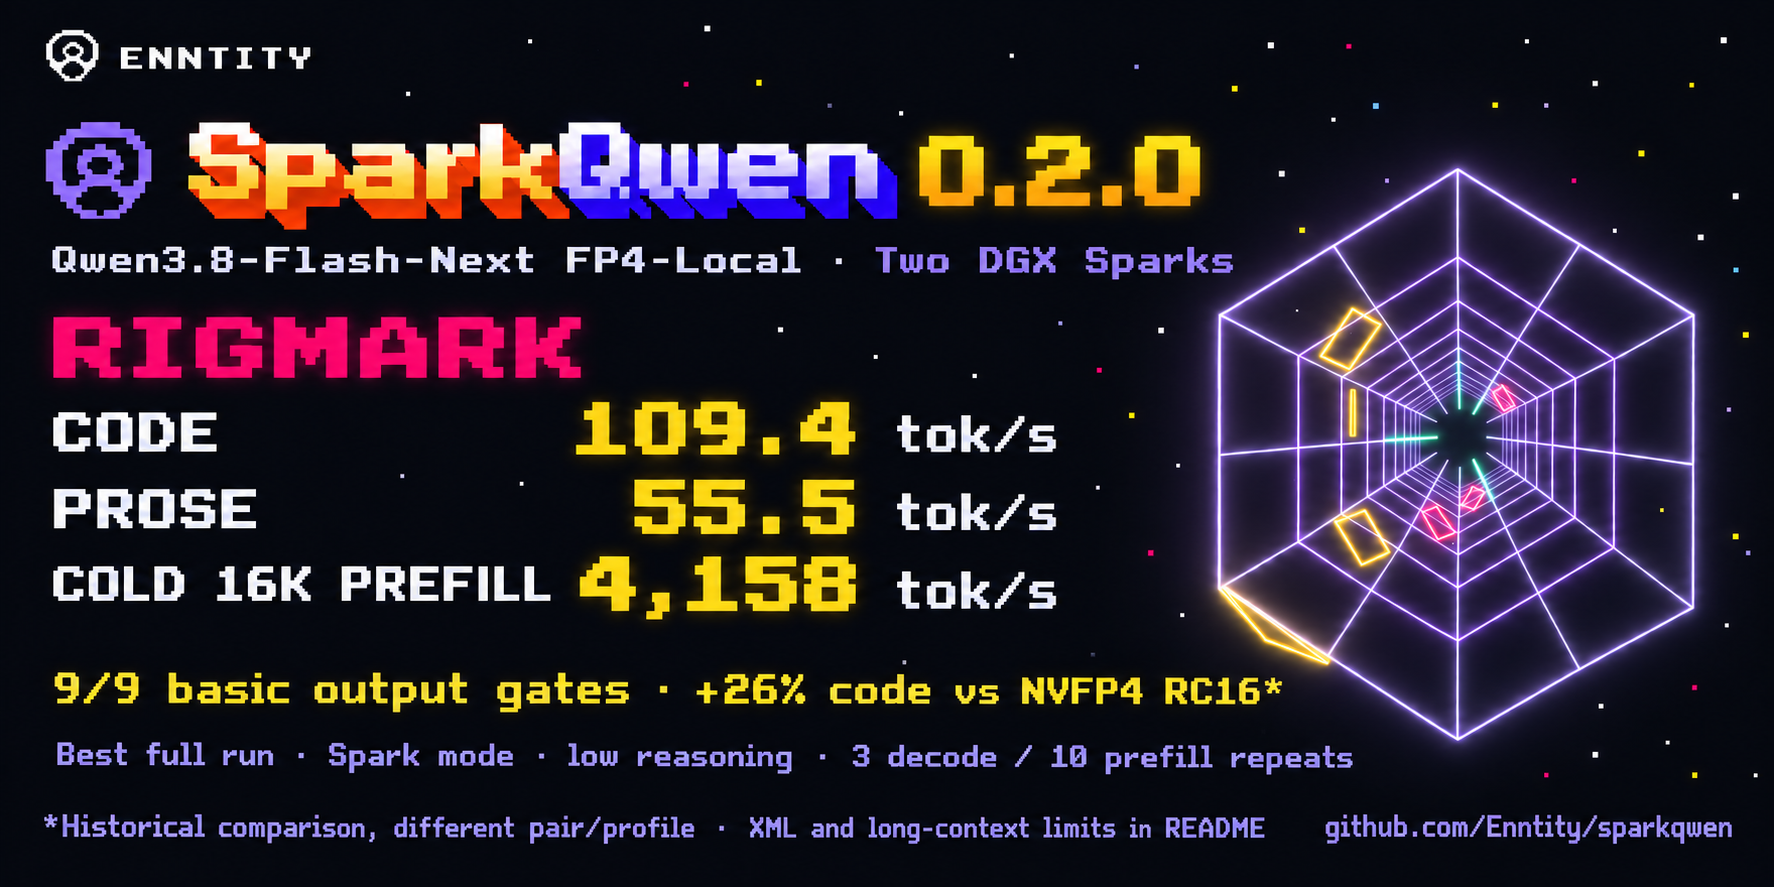
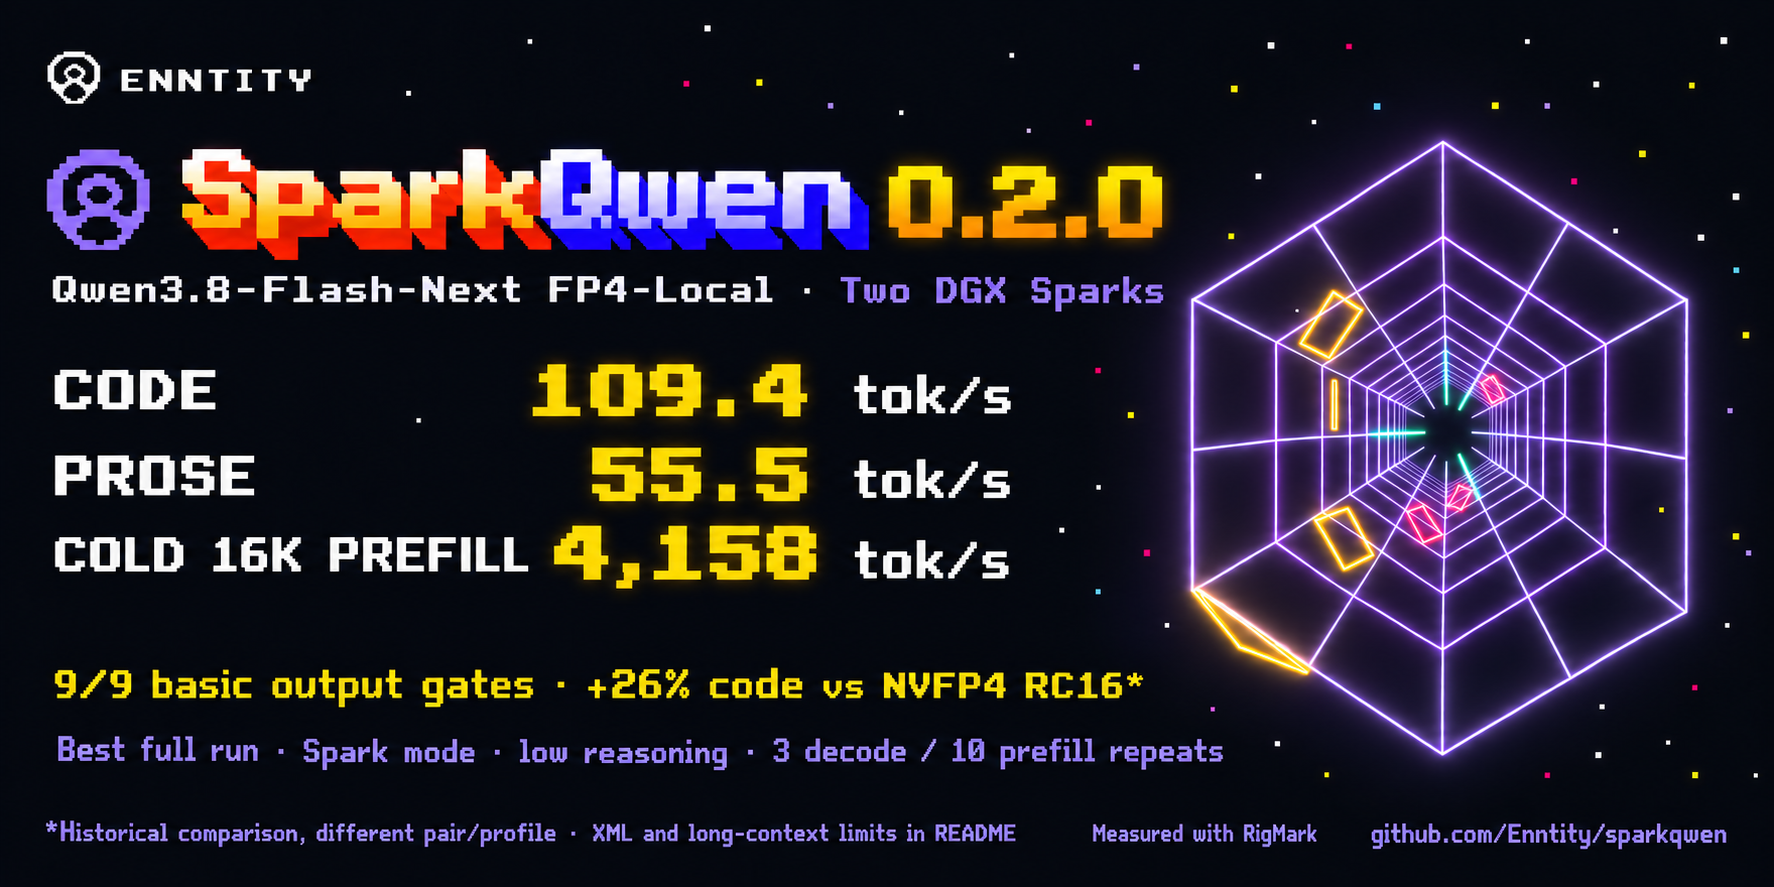
docs: make RigMark attribution subtle on SparkQwen cards (#22)

diff --git a/docs/assets/README.md b/docs/assets/README.md
@@ -3,8 +3,10 @@
 
 `banner.png` is the README hero; `social-preview.png` is the social card source.
 `social-preview.jpg` is its upload-ready export, below GitHub's 1 MB limit.
-The cards were redesigned with image generation on 2026-10-23 to lead with
-[RigMark](../../results/2026-10-23-rigmark/RESULT.md) and leave room around the figures.
+The cards were redesigned with image generation on 2026-10-23 to feature SparkQwen and leave room around the figures.
+[RigMark measurements](../../results/2026-10-23-rigmark/RESULT.md) are credited
+with a small "Measured with RigMark" note. The former large RigMark wordmark
+was removed to give the metrics and wireframe illustration more space.
 
 The cards show the selected best complete run in Spark mode with low reasoning: median code decode 109.4 tok/s,
 prose decode 55.5 tok/s and cold 16K prefill 4,158 tok/s. Decode has three
